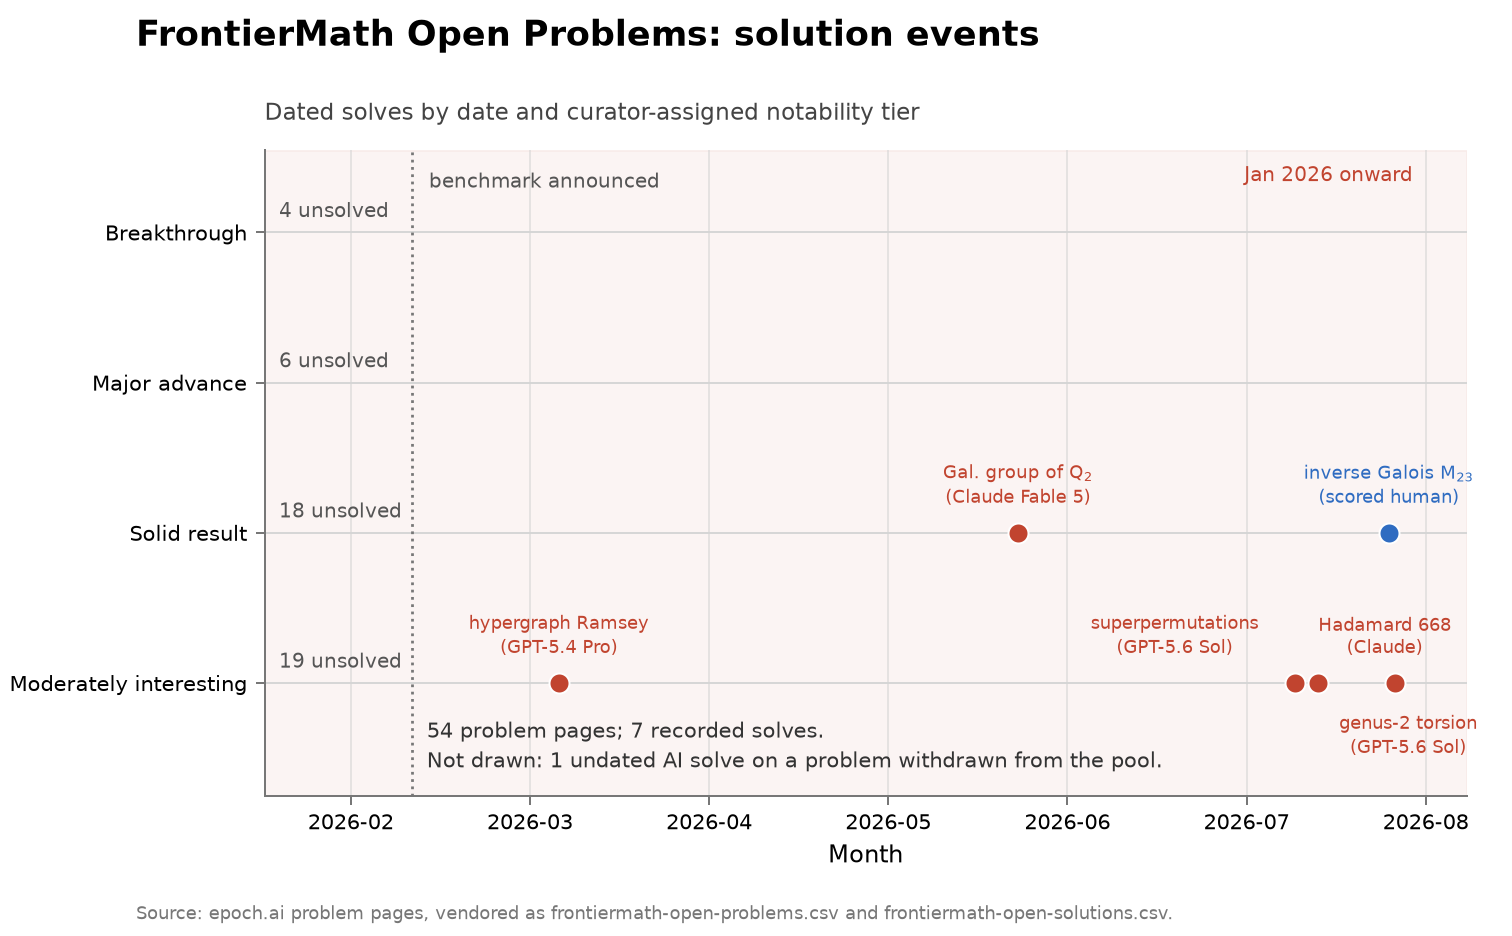
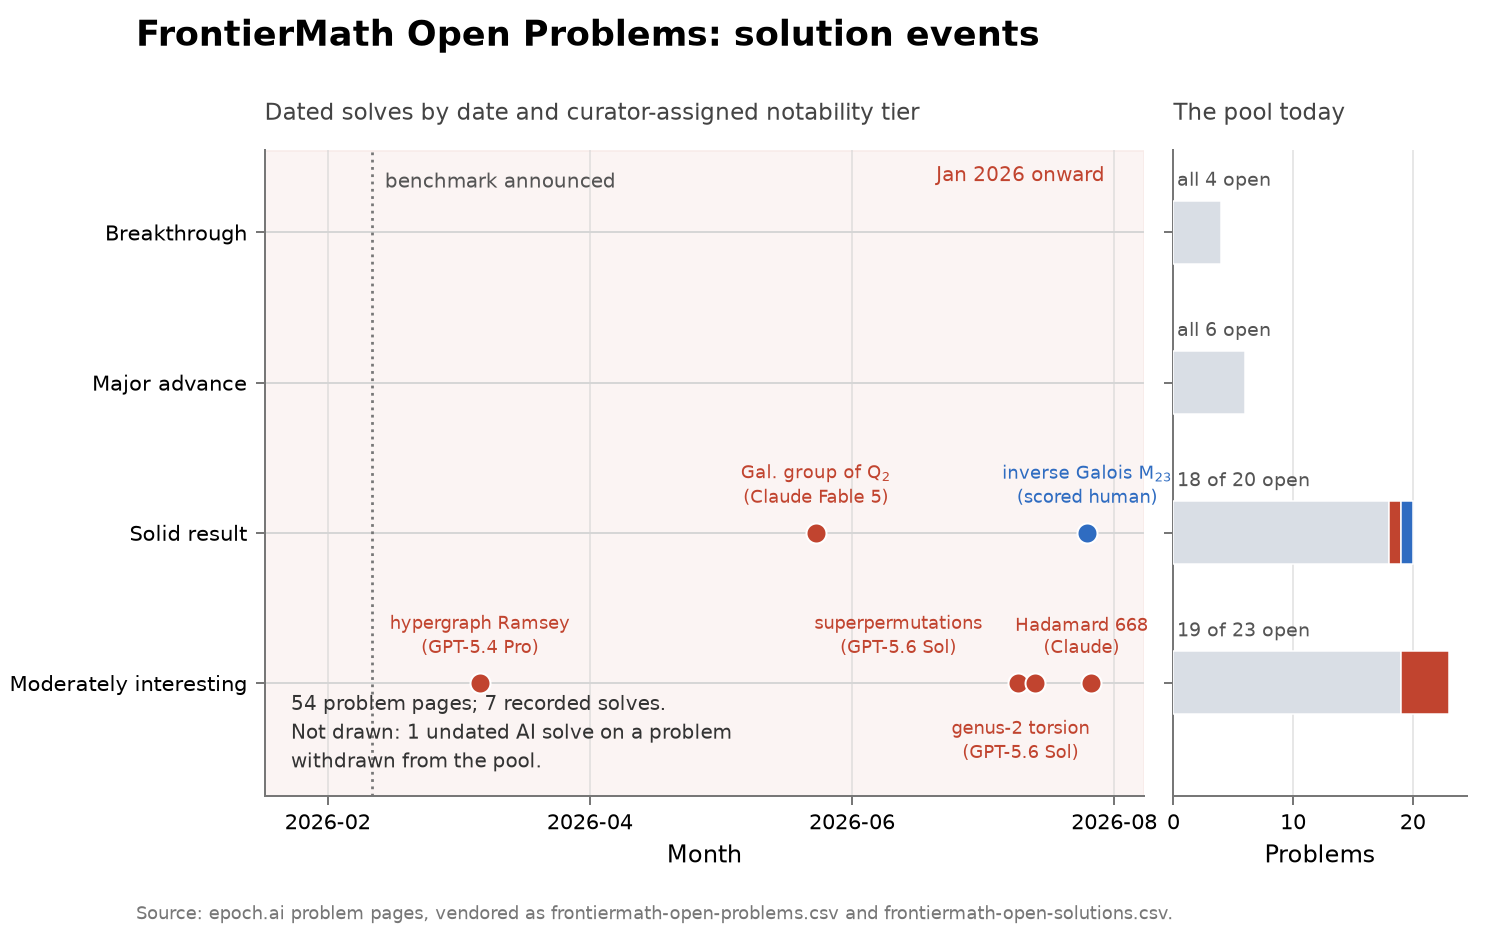
FrontierMath chart: draw the denominator beside the timeline
The events panel showed solves without what they are solves out of. A
second panel shares the tier lanes and draws the whole pool today as one
stacked bar per tier — open in the cumulative page's open colour, solved
slivers in the event colours — each with its surviving count, so six
events on the left read against 47 standing problems on the right.

diff --git a/docs/math-frontiermath-open.html b/docs/math-frontiermath-open.html
@@ -119,10 +119,13 @@ the public report the page links. <a href="https://github.com/tecunningham/ai-di
 ledgers, so a refetch that flips a status without the event ledger being
 reviewed fails the folder rather than passing silently.</p>
 <p><a href="https://github.com/tecunningham/ai-discovery-data/blob/main/problems/math-frontiermath-open/figure.py"><code>figure.py</code></a> places each dated event at its date and tier lane,
-with each lane's unsolved count at the right edge, and draws the cumulative
-count of dated solves for <a href="cumulative.html">CUMULATIVE.md</a>. The one
-undated solve — the withdrawn explicit-deformations page — is stated in a
-corner note rather than drawn.</p>
+and beside the timeline draws the denominator: the whole pool today as one
+stacked bar per tier — open, solved by AI, solved by humans — with each
+bar's reading stating how much of the tier survives, so the six events on
+the left are read against the 47 problems still standing. It also draws the
+cumulative count of dated solves for <a href="cumulative.html">CUMULATIVE.md</a>.
+The one undated solve — the withdrawn explicit-deformations page — is
+stated in a corner note rather than drawn.</p>
 <h2 id="what-it-cannot-support">What it cannot support</h2>
 <ul>
 <li><strong>Six months of data cannot show a trend.</strong> The verdict is "too early" for

diff --git a/problems/math-frontiermath-open/figure.py b/problems/math-frontiermath-open/figure.py
@@ -3,16 +3,21 @@
 
 Run: python3 problems/math-frontiermath-open/figure.py
 
-discovery-math-frontiermath-open.png places each dated solution event by date
-and notability tier, against the count of problems still unsolved in each
-tier. cumulative-math-frontiermath-open.png is the running count of solved
+discovery-math-frontiermath-open.png is two panels sharing the notability
+lanes: a timeline placing each dated solution event by date, and a
+denominator panel drawing the whole pool today as one stacked bar per tier —
+open, solved by AI, solved by humans — so the six events on the left are
+read against the 47 problems still standing on the right.
+cumulative-math-frontiermath-open.png is the running count of solved
 problems for the collection-wide cumulative index. Both read the mechanical
 page ledger and the hand-transcribed event ledger beside this file.
 
 This chart is a one-off shape rather than a lib/families call: no other series
 places events on a curator-assigned significance scale, and the whole series
 lives inside 2026, so the year-axis conventions of the shared ledger chart
-would collapse it to a single bar.
+would collapse it to a single bar. The open-bar colour is the cumulative
+page's open-rows colour, so "what remains" reads the same across the
+collection.
 """
 
 from __future__ import annotations
@@ -23,18 +28,19 @@ from pathlib import Path
 HERE = Path(__file__).resolve().parent
 sys.path.insert(0, str(HERE.parents[1]))
 
+from matplotlib import pyplot as plt  # noqa: E402
+
 from lib.chart import (  # noqa: E402
     AI,
     HUMAN,
     NOW,
-    new_chart,
     save,
     shade_era,
     source_note,
     style,
     year_fraction,
 )
-from lib.cumulative import events_chart  # noqa: E402
+from lib.cumulative import OPEN_COLOUR, events_chart  # noqa: E402
 from lib.table import read_csv  # noqa: E402
 
 TIERS = ["Moderately interesting", "Solid result", "Major advance",
@@ -53,7 +59,7 @@ OFFSETS = {
     "ramsey-hypergraphs": (0, 12),
     "q2-absolute-galois": (0, 12),
     "superpermutations": (-48, 12),
-    "genus-2-jacobian-torsion": (36, -28),
+    "genus-2-jacobian-torsion": (-6, -30),
     "inverse-galois": (0, 12),
     "hadamard": (-4, 12),
 }
@@ -66,19 +72,19 @@ def main() -> None:
     dated = [row for row in events if row["date"]]
     undated = [row for row in events if not row["date"]]
 
-    fig, ax = new_chart(
-        "FrontierMath Open Problems: solution events",
-        "Dated solves by date and curator-assigned notability tier",
+    fig, (ax, pool_ax) = plt.subplots(
+        1, 2, figsize=(8.4, 5.2), sharey=True,
+        gridspec_kw={"width_ratios": [3.0, 1.0], "wspace": 0.05},
     )
-    for lane, tier in enumerate(TIERS):
-        unsolved = sum(row["notability"] == tier and row["status"] == "unsolved"
-                       for row in problems)
+    fig.suptitle("FrontierMath Open Problems: solution events",
+                 x=0.09, y=0.98, ha="left", fontsize=14, fontweight="bold")
+    ax.set_title("Dated solves by date and curator-assigned notability tier",
+                 loc="left", fontsize=9.2, color="#444444", pad=12)
+    pool_ax.set_title("The pool today", loc="left", fontsize=9.2,
+                      color="#444444", pad=12)
+
+    for lane in range(len(TIERS)):
         ax.axhline(lane, color="#d5d5d5", linewidth=0.7, zorder=1)
-        # Lane counts sit at the left edge, where the timeline is empty; the
-        # events cluster toward the right.
-        ax.text(0.012, lane + 0.07, f"{unsolved} unsolved",
-                transform=ax.get_yaxis_transform(), fontsize=8,
-                color="#555555", va="bottom")
     by_slug = {row["slug"]: row for row in problems}
     for row in dated:
         tier = by_slug[row["slug"]]["notability"]
@@ -110,24 +116,58 @@ def main() -> None:
     ax.set_ylim(-0.75, 3.55)
     ax.set_yticks(range(len(TIERS)))
     ax.set_yticklabels(TIERS, fontsize=8.5)
-    months = [f"2026-{month:02d}" for month in range(2, 9)]
+    months = [f"2026-{month:02d}" for month in range(2, 9, 2)]
     ax.set_xticks([year_fraction(month) for month in months])
     ax.set_xticklabels(months, fontsize=8.5)
     shade_era(ax, right)
     style(ax, "", xlabel="Month")
     note = (f"{len(problems)} problem pages; "
             f"{len(dated) + len(undated)} recorded solves.\nNot drawn: "
-            f"{len(undated)} undated AI solve on a problem withdrawn from "
+            f"{len(undated)} undated AI solve on a problem\nwithdrawn from "
             "the pool.")
-    ax.text(0.135, 0.03, note, transform=ax.transAxes, fontsize=8.5,
+    ax.text(0.03, 0.03, note, transform=ax.transAxes, fontsize=8.2,
             color="#333333", va="bottom", linespacing=1.4)
+
+    # The denominator panel: the whole pool as one stacked bar per tier, so
+    # every event on the left is read against what still stands. Open rows
+    # use the cumulative page's open colour; the solved slivers reuse the
+    # event colours.
+    for lane, tier in enumerate(TIERS):
+        in_tier = [row for row in problems if row["notability"] == tier]
+        open_count = sum(row["status"] == "unsolved" for row in in_tier)
+        ai_count = sum(row["status"] == "solved_ai" for row in in_tier)
+        human_count = sum(row["status"] == "solved_human" for row in in_tier)
+        base = 0
+        for count, colour in ((open_count, OPEN_COLOUR), (ai_count, AI),
+                              (human_count, HUMAN)):
+            if count:
+                pool_ax.barh(lane, count, left=base, height=0.42,
+                             color=colour, edgecolor="white", linewidth=0.6,
+                             zorder=3)
+            base += count
+        solved = ai_count + human_count
+        reading = (f"{open_count} of {base} open" if solved
+                   else f"all {base} open")
+        # Above the bar rather than beside it: the panel is too narrow for a
+        # side label next to a 23-problem bar. Grey needs no legend — every
+        # reading names it — and the solved slivers reuse the event colours
+        # the timeline already labels.
+        pool_ax.text(0.3, lane + 0.28, reading, fontsize=7.6,
+                     color="#555555", va="bottom")
+    pool_ax.set_xlim(0, 24.5)
+    pool_ax.set_xticks([0, 10, 20])
+    style(pool_ax, "", xlabel="Problems")
+    pool_ax.grid(axis="y", visible=False)
+    pool_ax.tick_params(labelleft=False)
+
     source_note(fig, "Source: epoch.ai problem pages, vendored as "
                      "frontiermath-open-problems.csv and "
                      "frontiermath-open-solutions.csv.")
     save(
         fig,
         HERE / "discovery-math-frontiermath-open.png",
-        "FrontierMath Open Problems: dated solution events by notability tier.",
+        "FrontierMath Open Problems: dated solution events by notability "
+        "tier, with the surviving pool per tier.",
         ["https://epoch.ai/frontiermath/open-problems"],
         __file__,
         adjust={"left": 0.175},

diff --git a/problems/math-frontiermath-open/README.md b/problems/math-frontiermath-open/README.md
@@ -7,7 +7,7 @@
 **Upstream:** <https://epoch.ai/frontiermath/open-problems>
 **Verdict:** too early — a six-month-old pool built for cheap verification; every solve sits in its two lowest notability tiers
 
-![Dated solution events by notability tier.](discovery-math-frontiermath-open.png)
+![Dated solution events by notability tier, with the surviving pool per tier.](discovery-math-frontiermath-open.png)
 
 ## The problem
 
@@ -90,10 +90,13 @@ ledgers, so a refetch that flips a status without the event ledger being
 reviewed fails the folder rather than passing silently.
 
 [`figure.py`](figure.py) places each dated event at its date and tier lane,
-with each lane's unsolved count at the right edge, and draws the cumulative
-count of dated solves for [CUMULATIVE.md](../../CUMULATIVE.md). The one
-undated solve — the withdrawn explicit-deformations page — is stated in a
-corner note rather than drawn.
+and beside the timeline draws the denominator: the whole pool today as one
+stacked bar per tier — open, solved by AI, solved by humans — with each
+bar's reading stating how much of the tier survives, so the six events on
+the left are read against the 47 problems still standing. It also draws the
+cumulative count of dated solves for [CUMULATIVE.md](../../CUMULATIVE.md).
+The one undated solve — the withdrawn explicit-deformations page — is
+stated in a corner note rather than drawn.
 
 ## What it cannot support
 
